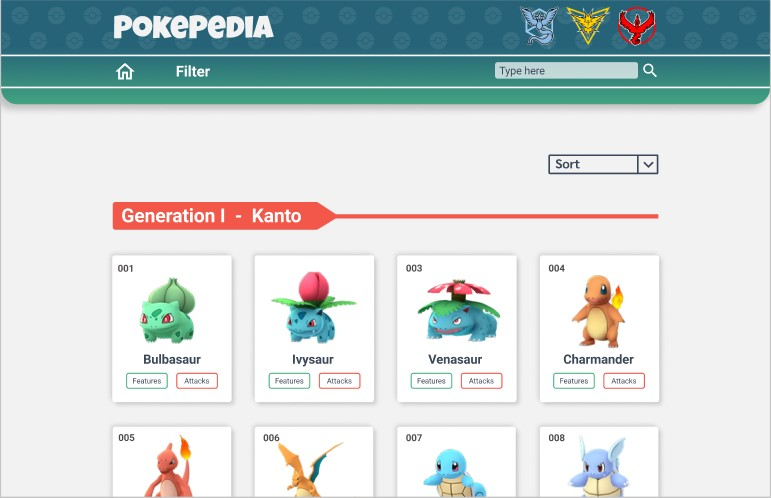
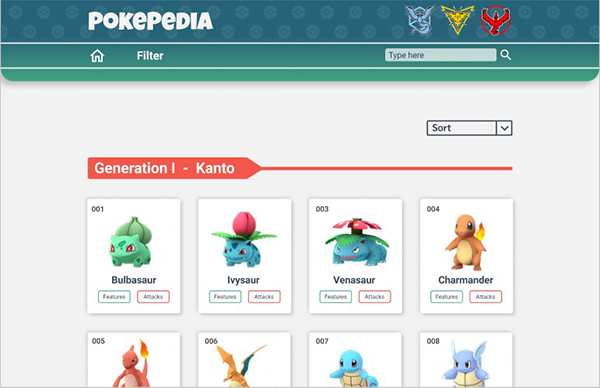
readme img

diff --git a/src/main.js b/src/main.js
@@ -10,15 +10,16 @@ import data from './data/pokemon/pokemon.js';
 
 const sectionContent = document.querySelector('.content');
 
+const getTypes = (arr) => {
+  let types = '';
+  arr.forEach((eachType) => {
+    types += `${eachType} `;
+  });
+  return types;
+};
+
 // MODAL FEATURES
 const featuresCard = (pokemon) => {
-  const getTypes = (arr) => {
-    let types = '';
-    arr.forEach((resist) => {
-      types += `${resist} `;
-    });
-    return types;
-  };
   // Card
   const sectionModal = document.createElement('section');
   sectionModal.classList.add('modal-container', 'modal-close');
@@ -141,13 +142,6 @@ const featuresCard = (pokemon) => {
 
 // MODAL ATTACK
 const attackCard = (pokemon) => {
-  const getTypes = (arr) => {
-    let types = '';
-    arr.forEach((resist) => {
-      types += `${resist} `;
-    });
-    return types;
-  };
   const sectionModal = document.createElement('section');
   sectionModal.classList.add('modal-container', 'modal-close');
   sectionModal.classList.toggle('modal-close');

diff --git a/README.md b/README.md
@@ -21,8 +21,8 @@
     ![](./baja-fidelidad-web.png)    
     ![](./baja-fidelidad-mobile.png)
   4. PROTOTIPOS DE ALTA FIDELIDAD
-    ![](./alta-fidelidad-web.png)    
-    ![](./alta-fidelidad-mobile.png)      
+    ![](./alta-fidelidad-web.jpg)    
+    ![](./alta-fidelidad-mobile.jpg)      
   5. HISTORIAS DE USUARIO 
   En el siguiente link => https://trello.com/b/tHgaOp0X/data-lovers podrán encontrar el número de historias en total que se plantearon, sus cambios y los pasos que se ejecutaron para que **POKEPEDIA** sea una realidad.
 ## 3. Objetivos de aprendizaje
